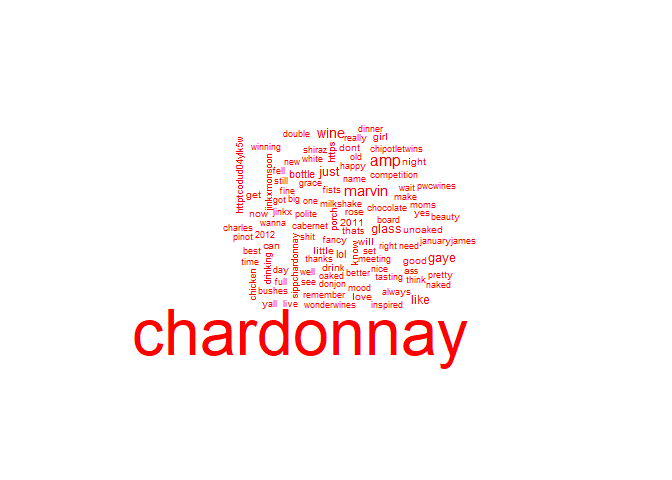
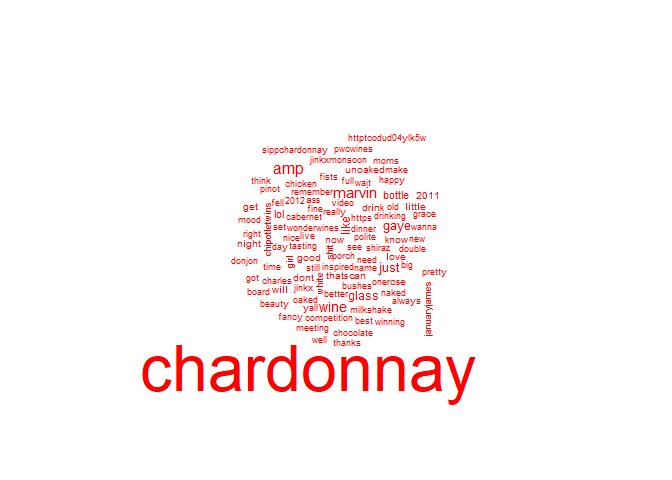
Finish word clouds.

Changed region(s): [[0.1875, 0.25, 0.7188, 0.8438]]

diff --git a/word_clouds_and_visuals.md b/word_clouds_and_visuals.md
@@ -1,13 +1,15 @@
 Word Clouds and More Interesting Visuals
 ================
 Mark Blackmore
-2018-01-04
+2018-01-05
 
 -   [Frequent Terms with `tm`](#frequent-terms-with-tm)
 -   [Frequent Terms with `qdap`](#frequent-terms-with-qdap)
 -   [A Simple Word Cloud](#a-simple-word-cloud)
 -   [Stop Words and Word Clouds](#stop-words-and-word-clouds)
 -   [Plot the Better Word Cloud](#plot-the-better-word-cloud)
+-   [Improve Word Cloud Colors](#improve-word-cloud-colors)
+-   [Use rebuilt Color Palettes](#use-rebuilt-color-palettes)
 
 ### Frequent Terms with `tm`
 
@@ -197,3 +199,47 @@ wordcloud(chardonnay_freqs$term, chardonnay_freqs$num,
 ```
 
 ![](word_clouds_and_visuals_files/figure-markdown_github-ascii_identifiers/unnamed-chunk-5-1.png)
+
+### Improve Word Cloud Colors
+
+``` r
+# Print the list of colors
+colors()[1:10]
+```
+
+    ##  [1] "white"         "aliceblue"     "antiquewhite"  "antiquewhite1"
+    ##  [5] "antiquewhite2" "antiquewhite3" "antiquewhite4" "aquamarine"   
+    ##  [9] "aquamarine1"   "aquamarine2"
+
+``` r
+# Print the wordcloud with the specified colors
+wordcloud(chardonnay_freqs$term, 
+          chardonnay_freqs$num, 
+          max.words = 100, 
+          colors = c("grey80", "darkgoldenrod1", "tomato"))
+```
+
+![](word_clouds_and_visuals_files/figure-markdown_github-ascii_identifiers/unnamed-chunk-6-1.png)
+
+### Use rebuilt Color Palettes
+
+``` r
+# List the available colors
+display.brewer.all()
+```
+
+![](word_clouds_and_visuals_files/figure-markdown_github-ascii_identifiers/unnamed-chunk-7-1.png)
+
+``` r
+# Create purple_orange
+purple_orange <- brewer.pal(10, "PuOr")
+
+# Drop 2 faintest colors
+purple_orange <- purple_orange[-(1:2)]
+
+# Create a wordcloud with purple_orange palette
+wordcloud(chardonnay_freqs$term, chardonnay_freqs$num, 
+          max.words = 100, colors = purple_orange)
+```
+
+![](word_clouds_and_visuals_files/figure-markdown_github-ascii_identifiers/unnamed-chunk-7-2.png)
